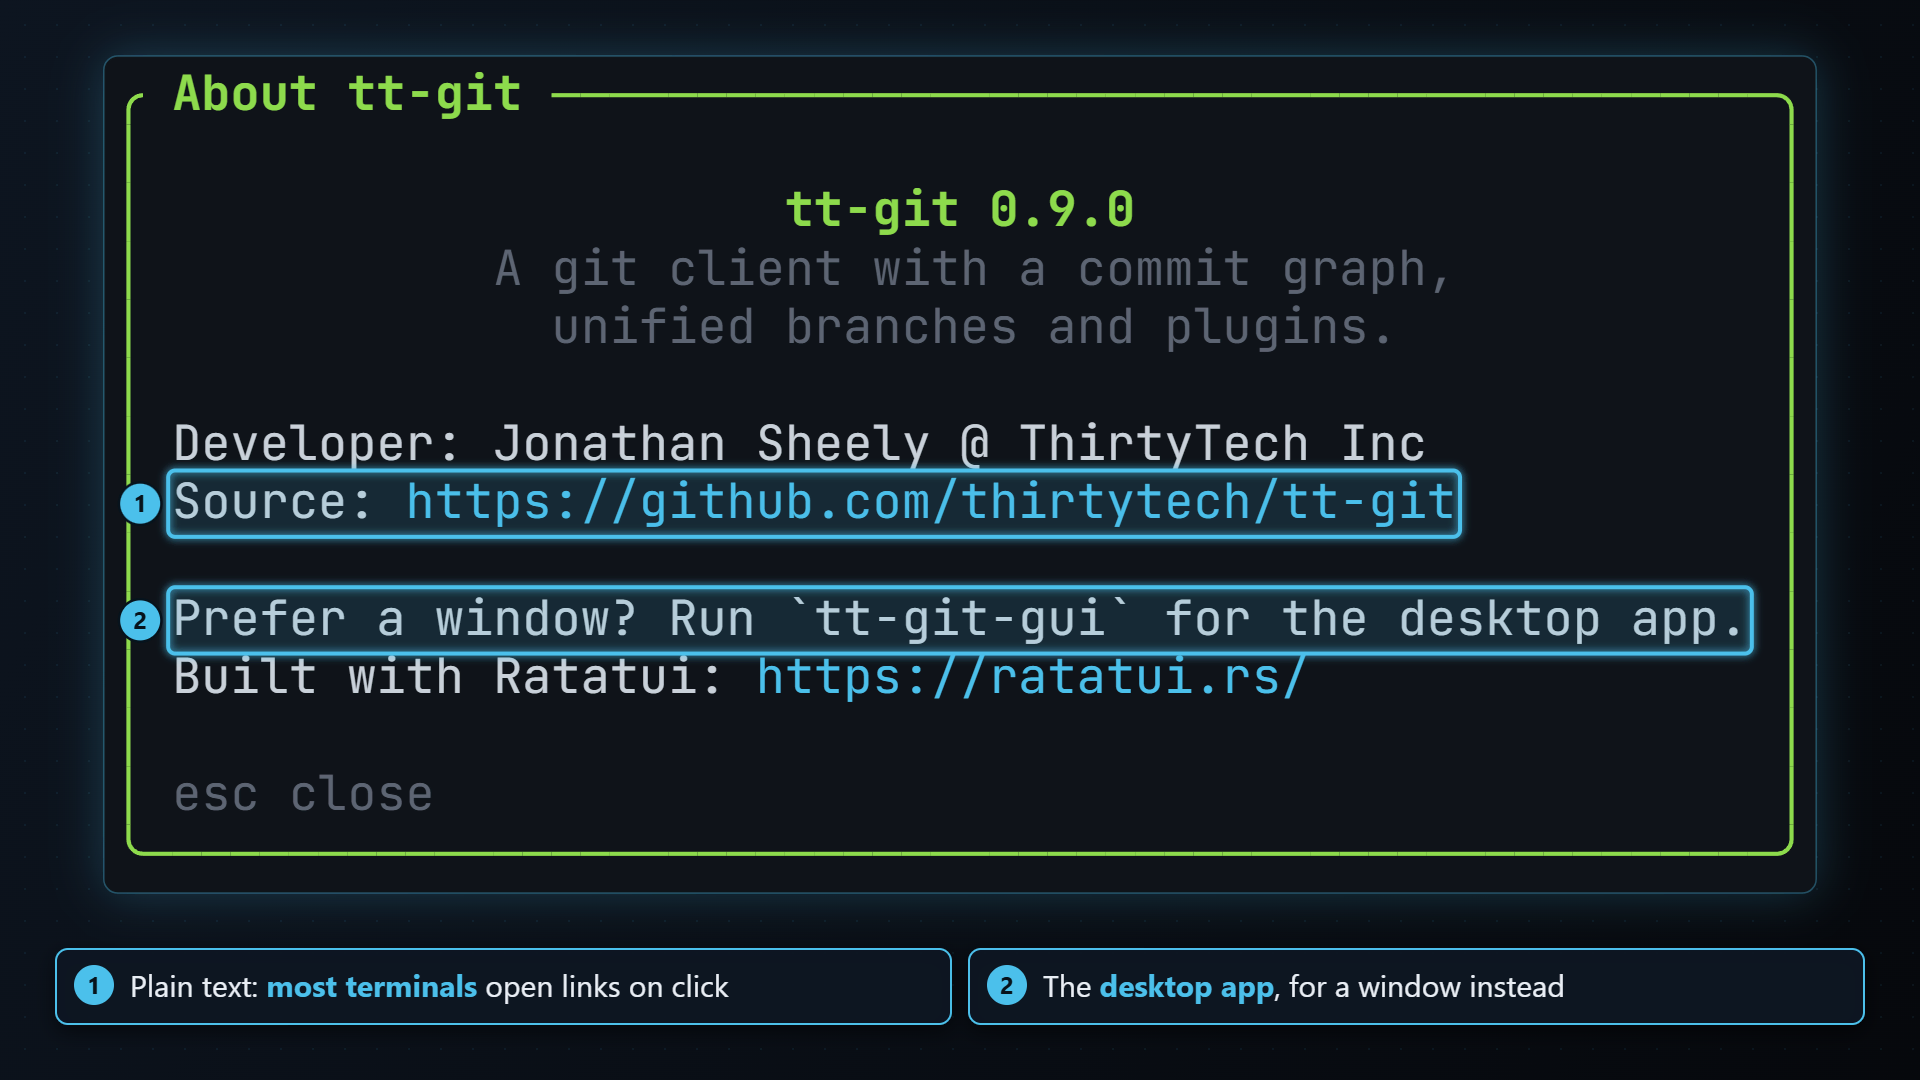
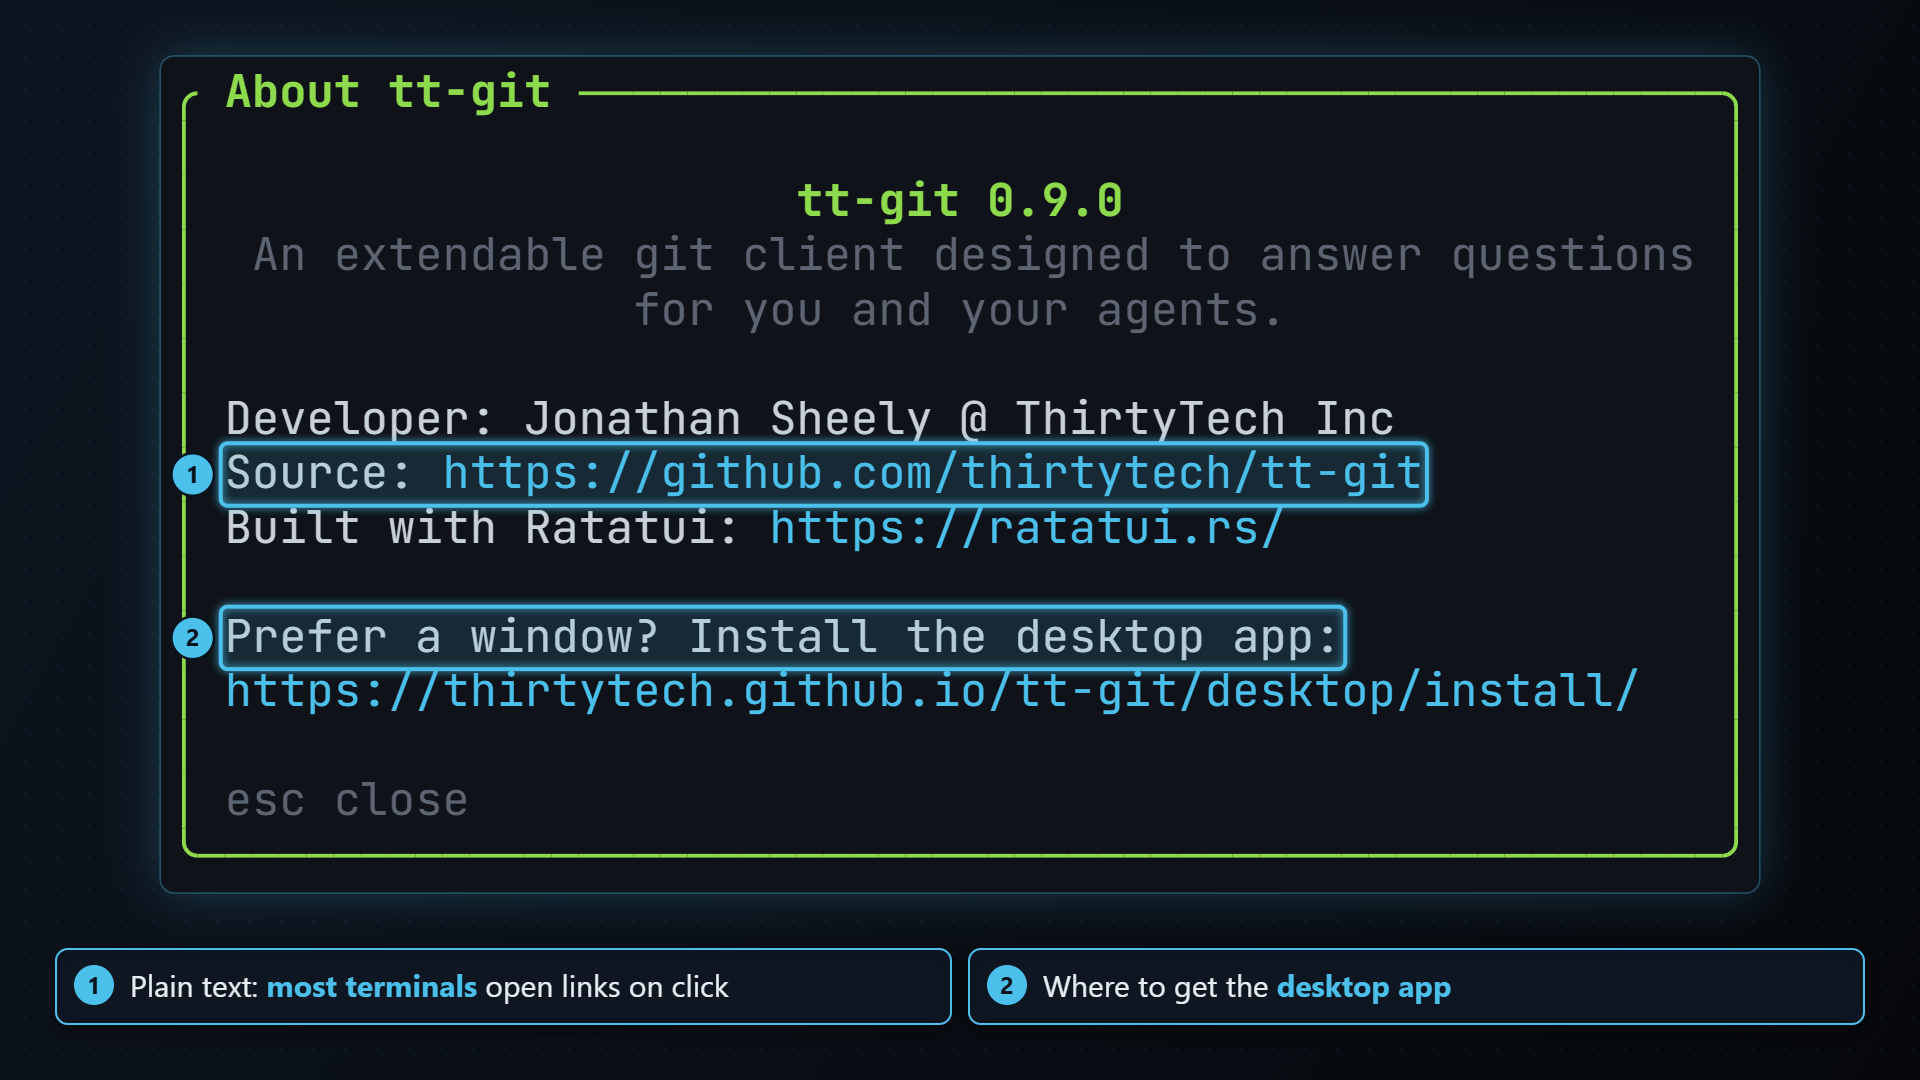
docs(help): Describe the help popup's About tab and the reworded About
The Getting help section shows the About tab, and the About pages describe
the new wording and install links. New captures for both apps' About tab;
the help, About and desktop help screenshots are taken again, and the
desktop About image now comes from guishots.

Changed region(s): [[0.0625, 0.0611, 0.9375, 0.7944], [0.5312, 0.8861, 0.8125, 0.9472]]

diff --git a/crates/tt-git-gui/examples/guishots.rs b/crates/tt-git-gui/examples/guishots.rs
@@ -100,6 +100,8 @@ fn shoot(out: PathBuf) {
         Shot::keys("staging", &["2", "j", "j", "j", "enter"]),
         Shot::keys("palette", &[":", "text:sta"]),
         Shot::keys("help", &["?"]),
+        Shot::keys("help-about", &["?", "tab"]),
+        Shot::keys("about", &[":", "text:about", "enter"]),
         Shot {
             name: "light",
             config: || Config {

diff --git a/crates/tt-git-testkit/examples/docshots.rs b/crates/tt-git-testkit/examples/docshots.rs
@@ -95,6 +95,7 @@ fn main() {
         ("palette-search", &[":", "text:sta"]),
         ("help", &["?"]),
         ("help-search", &["?", "text:merge"]),
+        ("help-about", &["?", "tab"]),
         ("about", &[":", "text:about", "enter"]),
         ("status-staged", &["2", "j", "space"]),
         ("after-commit", &["2", "c", "text:Bump React to 19.2", "enter"]),

diff --git a/docs/gui.md b/docs/gui.md
@@ -390,11 +390,13 @@ does. No GPUI key binding is made: the key is part of the item's text.
 command to every window. `About` sends `Command::About`, as *About* in
 the palette does, which opens `Modal::About`. The GUI draws it in
 `dialogs/about.rs`: the icon at 96px (`menus::icon::about_icon`), the
-version, the developer, and links to the repository and gpui.rs that open
-with `cx.open_url`; the text it shares with the TUI's is in
-`tt_git_app::view::dialogs::about`. Its keys go to the app like any
-modal's (esc, enter, `q` or space close it; others wait), and a click
-outside sends the app esc.
+version, the developer, and links to the repository, gpui.rs and the
+terminal app's install page that open with `cx.open_url`; the text it
+shares with the TUI's is in `tt_git_app::view::dialogs::about`. Its keys go
+to the app like any modal's (esc, enter, `q` or space close it; others
+wait), and a click outside sends the app esc. The help popup's About tab
+(`App::help_tab`, `HelpTab::About`) draws the same body,
+`dialogs::about::content`, inside `dialogs/help.rs`.
 
 Per platform (gpui-pre 0.3.9):
 

diff --git a/docs-site/README.md b/docs-site/README.md
@@ -77,8 +77,12 @@ over the images before committing them.
 
 ### The desktop app
 
-`docshots` drives the terminal app only, so the desktop app's images
-(`src/assets/screens/gui-*.png`) are captures of its real window. Build
+`docshots` drives the terminal app only. The desktop app's images
+(`src/assets/screens/gui-*-<os>.webp`) come from the `guishots` example in
+`tt-git-gui`, which opens the real app on the same mock repository and saves
+each window: `pnpm screens:gui:capture`, then `pnpm screens:gui` (see
+[docs/gui.md](../docs/gui.md)). A view it can't reach, such as a native OS
+dialog (`src/assets/screens/gui-*.png`), is a capture of the real window. Build
 `tt-git-gui`, run it with `--no-plugins` and its own `TTGIT_CONFIG_DIR` and
 `TTGIT_STATE_DIR` on a scratch repository (a few commits and branches,
 never a repository you work in), resize the window to 1400×860, open what

diff --git a/README.md b/README.md
@@ -116,8 +116,8 @@ tt-git-gui                               # in a repository, or: tt-git-gui path/
 
 ## Keys
 
-Press `?` for the keys of the focused pane (type to search them, `esc` to
-close), or `:` (or `ctrl+p`) for the
+Press `?` for the keys of the focused pane (type to search them, `tab` for
+About, `esc` to close), or `:` (or `ctrl+p`) for the
 command palette, which lists built-in commands and plugin actions.
 
 | Where | Key | Does |
